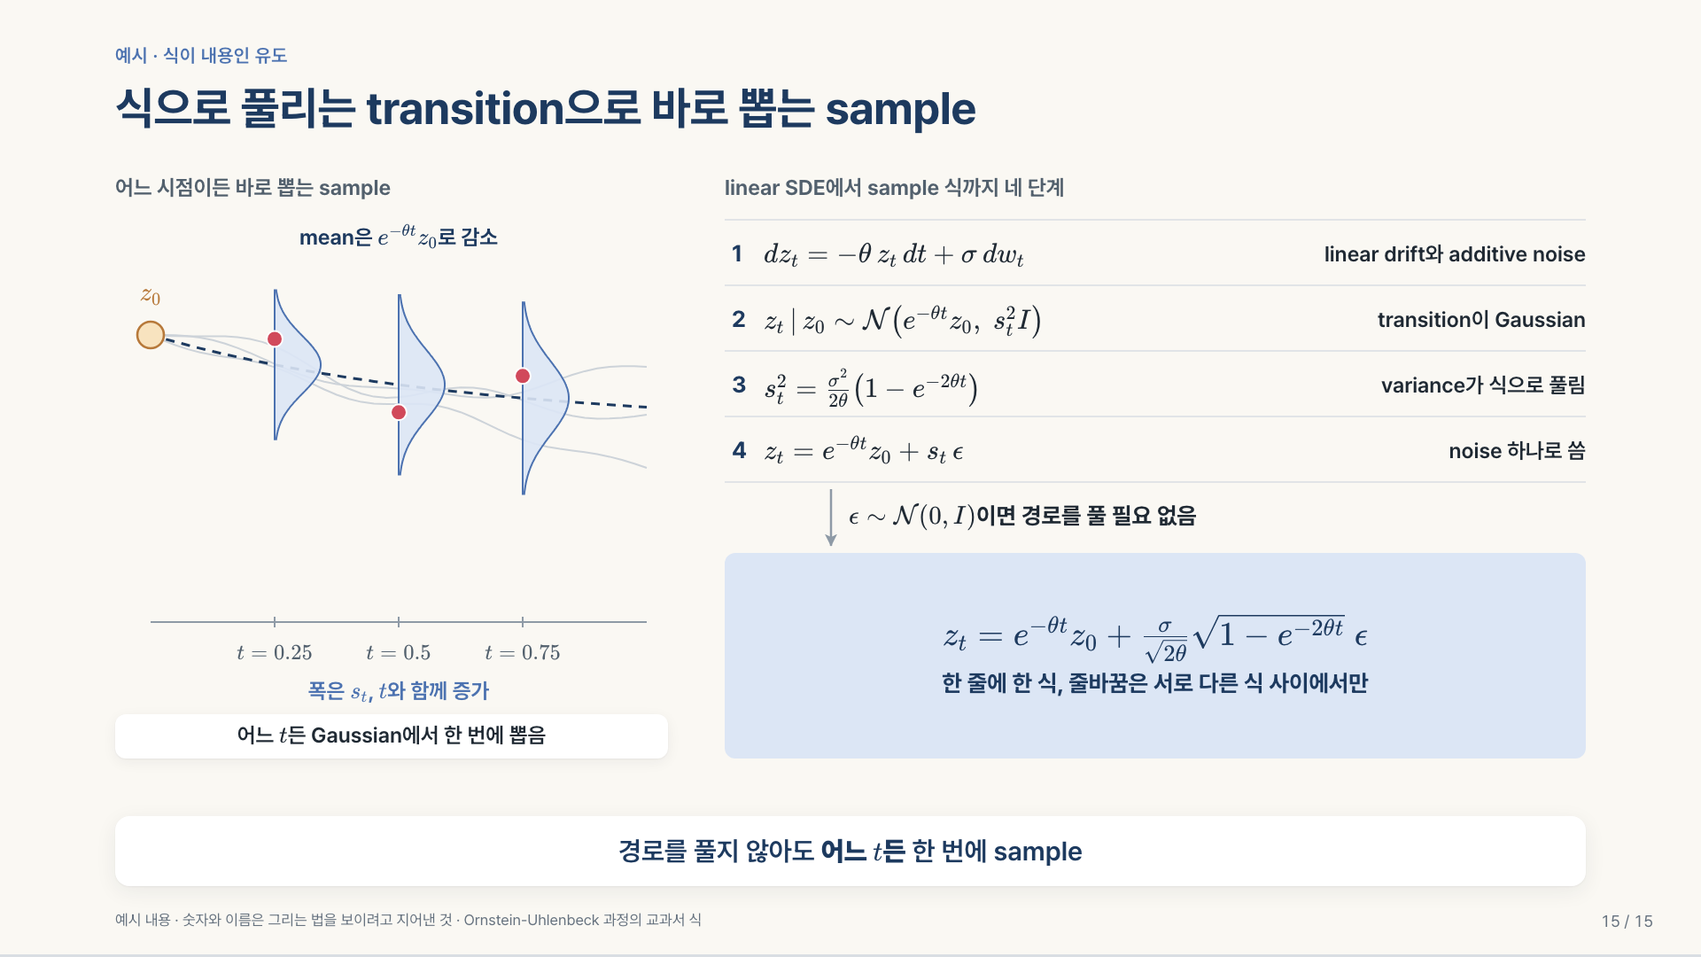
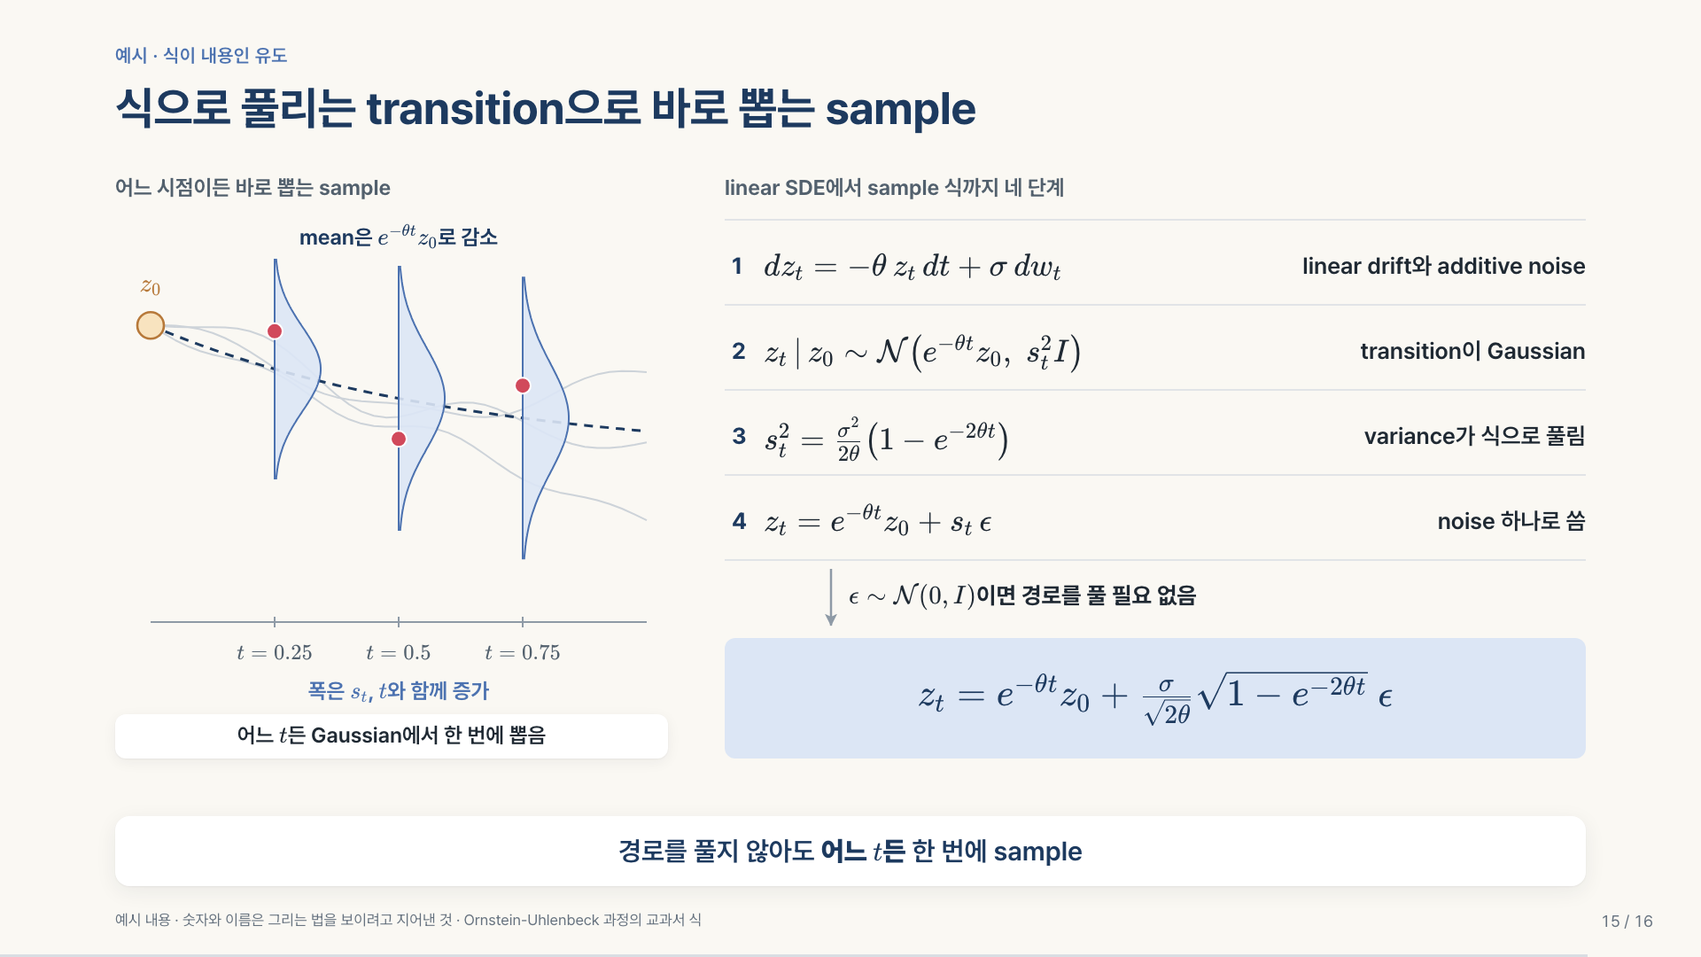
html-research-deck: what judges held against the GPT decks on an unseen paper: a transformation arrow goes in the gap between whole figures (graph_fig, gap_arrow, gallery slide 16), formula tables are larger and result cards fit their content (gallery slide 15, style_gap), a closing line's claim mus

diff --git a/skills/codex/html-research-deck/scripts/kit_gallery.py b/skills/codex/html-research-deck/scripts/kit_gallery.py
@@ -1,5 +1,5 @@
 #!/usr/bin/env python3
-"""kit_gallery.py — fifteen worked slides drawn with scene_kit.py, with toy content and no paper in them. Copy a slide's code, keep its sizes and positions, change the content.
+"""kit_gallery.py — sixteen worked slides drawn with scene_kit.py, with toy content and no paper in them. Copy a slide's code, keep its sizes and positions, change the content.
 
 usage: kit_gallery.py /abs/deck   (a folder scaffolded by new_deck.py). Renders are kept in assets/kit-gallery/ of this skill.
 Numbers, names and curves here are invented to show the drawing; nothing on these slides is a result.
@@ -353,7 +353,7 @@ def g14_cards():
 def g15_derivation():
     """A derivation: the formulas are the content. One table row per step, one relation on each line, the result on the key-equation card, and beside it a picture of what the result means. Never a chain of boxes holding step names."""
     theta, sig, z0 = 1.6, 1.3, 1.7
-    fr = Frame(40, 92, 560, 396, (0, 1), (-3.4, 3.2))
+    fr = Frame(40, 92, 560, 396, (0, 1), (-1.9, 2.6))
     sd = lambda t: sig * math.sqrt((1 - math.exp(-2 * theta * t)) / (2 * theta))
     mean = lambda t: z0 * math.exp(-theta * t)
     l = lane(0, 24, '어느 시점이든 바로 뽑는 sample')
@@ -372,14 +372,33 @@ def g15_derivation():
             (r'$z_t\,|\,z_0 \sim \mathcal N\big(e^{-\theta t} z_0,\; s_t^2 I\big)$', 'transition이 Gaussian'),
             (r'$s_t^2 = \frac{\sigma^2}{2\theta}\big(1 - e^{-2\theta t}\big)$', 'variance가 식으로 풀림'),
             (r'$z_t = e^{-\theta t} z_0 + s_t\,\epsilon$', 'noise 하나로 씀')]
-    r, hr = derive(rows)
-    r = lane(0, 24, 'linear SDE에서 sample 식까지 네 단계') + r + arrow(120, 356, 120, 420)
-    hr += tex(140, 396, r'$\epsilon \sim \mathcal N(0, I)$이면 경로를 풀 필요 없음', 26, 700)
-    hr += fx(0, 428, 972, 232, [r'$z_t = e^{-\theta t} z_0 + \frac{\sigma}{\sqrt{2\theta}}\sqrt{1 - e^{-2\theta t}}\;\epsilon$', '<span style="color:#1D3A5F;font-weight:700;font-size:26px">한 줄에 한 식, 줄바꿈은 서로 다른 식 사이에서만</span>'], 34, 'box blue')
+    r, hr = derive(rows, rh=96, size=32, note_size=26)
+    r = lane(0, 24, 'linear SDE에서 sample 식까지 네 단계') + r + arrow(120, 446, 120, 510)
+    hr += tex(140, 486, r'$\epsilon \sim \mathcal N(0, I)$이면 경로를 풀 필요 없음', 26, 700)
+    hr += fx(0, 524, 972, 136, [r'$z_t = e^{-\theta t} z_0 + \frac{\sigma}{\sqrt{2\theta}}\sqrt{1 - e^{-2\theta t}}\;\epsilon$'], 38, 'box blue')
     return slide('예시', '예시 · 식이 내용인 유도', '식으로 풀리는 transition으로 바로 뽑는 sample', [panel(110, 176, 664, 722, l, h), panel(798, 176, 1012, 722, r, hr)],
                  '경로를 풀지 않아도 <b>어느 $t$든</b> 한 번에 sample', CITE + ' · Ornstein-Uhlenbeck 과정의 교과서 식', notes('유도를 말하는 장은 식이 내용입니다. 단계 이름만 적은 상자로 바꾸지 않습니다. 한 식은 한 줄에 둡니다.'))
 
 
+def g16_transform():
+    """Whole figure to whole figure: a thick arrow in the empty gap between the two drawings. An arrow from a node to a node reads as one more edge. What changed is coloured where it happened; the bars show what the steps add up to."""
+    pos = {'a': (-125, -75), 'b': (0, -150), 'c': (125, -75), 'd': (125, 75), 'e': (0, 150), 'f': (-125, 75)}
+    ring = [('a', 'b'), ('b', 'c'), ('c', 'd'), ('d', 'e'), ('e', 'f'), ('f', 'a')]
+    cxs, cy = (230, 830, 1430), 270
+    s = graph_fig(cxs[0], cy, pos, ring + [('a', 'd')], gone=[('a', 'd'), ('c', 'd')])
+    s += graph_fig(cxs[1], cy, pos, [e for e in ring if e != ('c', 'd')])
+    s += graph_fig(cxs[2], cy, pos, [e for e in ring if e != ('c', 'd')], new=[('b', 'e')], new_nodes=['c'])
+    s += gap_arrow(410, 650, cy, '2곳 지움') + gap_arrow(1010, 1250, cy, '2곳 더함')
+    for cx, lab in zip(cxs, ('출발 graph', '중간 graph', '도착 graph')):
+        s += T(cx, 28, lab, 26, 650, SOFT, 'middle')
+    for cx, left in zip(cxs, (4, 2, 0)):
+        s += T(cx - 150, 500, '도착까지 남은 변경', 24, None, SOFT)
+        s += rect(cx - 150, 520, max(8, 300 * left / 4), 60, 6, BLUE if left else BAR_OTHER, 'none', 0) + T(cx - 150 + max(8, 300 * left / 4) + 16, 563, str(left), 34, 700, NAVY)
+    s += T(830, 650, '빨간 점선은 지울 edge, 빨간 실선은 새 edge, 노란 node는 바뀐 node', 24, 600, RED, 'middle')
+    return slide('예시', '예시 · 그림에서 그림으로', '한 번에 바꾸지 않고 작은 변경으로 잇는 graph', [panel(*FULL, s)],
+                 '남은 변경이 <b>4에서 0으로</b> 줄어드는 두 걸음', CITE, notes('변환 화살표는 두 그림 사이의 빈 곳에 두고, 바뀐 곳은 그 자리의 색으로 표시합니다.'))
+
+
 if __name__ == '__main__':
     init(sys.argv[1])
-    write_deck([g() for g in (g1_cover, g2_two_chains, g3_table, g4_hero, g5_mechanism, g6_bars, g7_lines, g8_closing, g9_causal, g10_matrix, g11_rank, g12_tiers, g13_boxes, g14_cards, g15_derivation)])
+    write_deck([g() for g in (g1_cover, g2_two_chains, g3_table, g4_hero, g5_mechanism, g6_bars, g7_lines, g8_closing, g9_causal, g10_matrix, g11_rank, g12_tiers, g13_boxes, g14_cards, g15_derivation, g16_transform)])

diff --git a/skills/codex/html-research-deck/scripts/scene_kit.py b/skills/codex/html-research-deck/scripts/scene_kit.py
@@ -23,6 +23,7 @@ same coordinates and add the padding themselves.
     T(), lines(), tex(), fx()              text, several lines, a label with KaTeX, a KaTeX card (cls 'box' white, 'box blue' the deck's key equation)
     derive()           a derivation as a table: one row per step, its formula on one line and a phrase of what it gives
     node(), edge()     a causal graph: circles and arrows trimmed to their rims
+    graph_fig(), gap_arrow()     one graph as one figure, and the arrow from one whole figure to the next, which sits in the gap and touches neither
     plot_axes(), dots(), fit_line(), swarm(), box_stat()   small plots: scatter with a fit, dots on a number line, box plots
     arrow(), qarrow(), curve(), arr(), line(), rect(), card(), circle(), strand(), badge(), check_mark(), lock(), cross()
 No reported number ever comes from these drawings; the cite line says what is schematic.
@@ -272,6 +273,23 @@ def node(cx, cy, label, r=36, hidden=False, outcome=False, size=24, stroke=None)
     for k, part in enumerate(parts):
         out += T(cx, cy - (len(parts) - 1) * lh / 2 + k * lh + size * 0.36, part, size, 700, SOFT if hidden else None, 'middle')
     return out
+
+
+def graph_fig(cx, cy, pos, edges, gone=(), new=(), new_nodes=(), r=26, labels=False):
+    """One graph as one figure. pos = {name: (dx, dy)} around (cx, cy); edges = [(a, b)]; gone: edges about to be removed (red dashed); new: edges just added (red); new_nodes: changed nodes (amber)."""
+    out = ''
+    for a, b in list(edges) + [e for e in new if e not in edges]:
+        (ax, ay), (bx, by) = pos[a], pos[b]
+        hit_gone, hit_new = (a, b) in gone, (a, b) in new
+        out += line(cx + ax, cy + ay, cx + bx, cy + by, RED if hit_gone or hit_new else '#5F718A', 4 if hit_gone or hit_new else 3, '9 7' if hit_gone else None)
+    for name, (dx, dy) in pos.items():
+        out += node(cx + dx, cy + dy, name if labels else '', r, outcome=name in new_nodes)
+    return out
+
+
+def gap_arrow(x1, x2, y, label='', color=GRAY):
+    """A transformation from one whole figure to the next: thick, straight, in the empty gap between them, with what changes written above it. It never touches a node or a small box."""
+    return arr(x1, y, x2, y, color, 7, size=30) + (T((x1 + x2) / 2, y - 30, label, 26, 650, SOFT, 'middle') if label else '')
 
 
 def edge(x1, y1, x2, y2, r1=36, r2=36, color=GRAY, dash=None, sw=2.6):

diff --git a/skills/codex/html-research-deck/scripts/style_gap.py b/skills/codex/html-research-deck/scripts/style_gap.py
@@ -12,7 +12,7 @@ Limits come from the accepted Opus decks rendered under the stage-first theme (L
 anchor 0.9 or above emptyrect 11.7 there, a result slide never below mass 3.8 or above emptyrect 20; their medians on figure slides were mass 13-23, anchor 3.8-12.6, emptyrect 6.8-8.3, and a GPT
 build before this script had 11.8, 3.2, 11.0. A kit-built deck can also overshoot, with big filled boxes in place of drawings (medians 33-38 on CausalGame), hence the upper limit on mass.
 This measures resemblance, not quality: it has no view on the argument.
-Also flagged: a formula row that starts with an operator, which is one relation split over two rows (user 2026-11-02).
+Also flagged: a formula row that starts with an operator, which is one relation split over two rows (user 2026-11-02), and a formula card taller than 170 px that holds one row (the judges' empty blue card, 2026-11-02).
 The whitebox limit: the Yuanqi Du deck's median is 6, v10 with white figure panels 29, six chart cards on one slide 16 each. Also checked: the cover is the title-slide template with the title on the stage; titles and closing lines against the approved storyline.
 Prints one FIX line per finding and exits 0; the builder fixes them and runs it again.
 """
@@ -171,6 +171,9 @@ def main():
         for row in re.findall(r'<p[^>]*>(.*?)</p>', body, flags=re.S):
             if SPLIT_ROW.match(html.unescape(row)):
                 fixes.append(f'FIX slide {i}: 식이 두 줄로 나뉘었다({plain(row)[:40]}…). 한 관계식은 한 줄에: 카드를 넓히거나 24 px까지 줄인다')
+        for m in re.finditer(r'<div class="fx box[^"]*"[^>]*height:([\d.]+)px[^>]*>(.*?)</div>', body, flags=re.S):
+            if float(m.group(1)) > 170 and len(re.findall(r'<p[ >]', m.group(2))) == 1:
+                fixes.append(f'FIX slide {i}: 식 한 줄에 높이 {float(m.group(1)):g} px 카드는 휑하다. 카드 높이를 내용에 맞춘다(한 줄이면 130 px 안팎)')
     rows = []
     for p in sorted(glob.glob(str(root / 'deck' / 'qa' / 'shots-full' / 'slide-*.png'))):
         n = int(re.search(r'slide-(\d+)', p).group(1))

diff --git a/skills/codex/html-research-deck/references/builder-notes-gpt.md b/skills/codex/html-research-deck/references/builder-notes-gpt.md
@@ -4,15 +4,15 @@
 
 ## 그리기 전에
 
-1. `assets/kit-gallery/slide-01.png`–`slide-15.png`를 모두 열어 본다. 이것이 목표 모양이다.
-2. `scripts/kit_gallery.py`를 끝까지 읽는다. 실제 코드다: 1 표지, 2 두 패널의 사슬, 3 갈래 표, 4 분포 사이의 큰 그림, 5 기전 한 장, 6 막대, 7 선, 8 정리 장, 9 인과 그래프 세 칸, 10 점 행렬, 11 많은 항목의 순위 점 그림, 12 구간을 강조한 선 그래프, 13 상자 그림, 14 흰 카드에 하나씩 담은 작은 차트 여섯 개, 15 식이 내용인 유도 표. 상자와 화살표는 그 장의 내용이 정말 흐름일 때만 쓰고, 데이터와 변수 관계는 6·7·9–13번처럼 그린다. 부품은 `scripts/scene_kit.py`이고 사용법은 그 첫머리에 있다. `build.py`는 `from scene_kit import *`와 `init(...)`, `write_deck(...)`로 시작한다.
+1. `assets/kit-gallery/slide-01.png`–`slide-16.png`를 모두 열어 본다. 이것이 목표 모양이다.
+2. `scripts/kit_gallery.py`를 끝까지 읽는다. 실제 코드다: 1 표지, 2 두 패널의 사슬, 3 갈래 표, 4 분포 사이의 큰 그림, 5 기전 한 장, 6 막대, 7 선, 8 정리 장, 9 인과 그래프 세 칸, 10 점 행렬, 11 많은 항목의 순위 점 그림, 12 구간을 강조한 선 그래프, 13 상자 그림, 14 흰 카드에 하나씩 담은 작은 차트 여섯 개, 15 식이 내용인 유도 표, 16 그림 전체에서 그림 전체로 가는 변환. 상자와 화살표는 그 장의 내용이 정말 흐름일 때만 쓰고, 데이터와 변수 관계는 6·7·9–13번처럼 그린다. 부품은 `scripts/scene_kit.py`이고 사용법은 그 첫머리에 있다. `build.py`는 `from scene_kit import *`와 `init(...)`, `write_deck(...)`로 시작한다.
 3. `assets/reference/` 아래 덱이 있으면 PNG와 `build.py`도 본다. 지금 만드는 덱과 같은 논문의 폴더는 열지 않는다. 그 덱의 코드와 문구는 영어 용어 규칙과 무대 위 그림 규칙 이전의 것이니, 모양만 참고하고 문구와 흰 박스 코드는 따르지 않는다.
 4. `work/scene-spec.md`를 쓴다. 장마다 다섯 칸: 복사할 장(갤러리 또는 기준 덱의 함수 이름) / 마무리줄이 주장하는 것 / 그것을 증명하는 그림 요소 / 등장 행위자 전부 / 첫 입력에서 마지막 출력까지.
 
 ## 복사하는 법
 
 5. 장마다 가장 가까운 예제 함수를 통째로 복사한 뒤 글자와 숫자만 바꾼다. 도형의 크기, 위치, 글자 크기, 선 굵기, 색은 그대로 둔다. 예제에 없는 모양이 꼭 필요할 때만 새로 그리고, 그때도 kit의 부품과 색 상수로 그린다.
-6. 그림은 흰 패널에 넣지 않고 따뜻한 무대 위에 바로 놓는다. `panel()`은 투명하다. 흰색은 한 항목만 담는 작은 카드에만 쓴다: 수식 하나(`fx`), 여러 칸 중 차트 하나(`cls='panel card'`, 갤러리 14장), 마무리줄. 큰 흰 사각형을 그리거나 슬라이드에 `background`를 넣지 않는다. 표지는 `cover()`다. 제목은 무대 위에 두고 흰 박스에 넣지 않으며, kicker, h2, 마무리줄을 두지 않는다. 제목을 세 줄로 끊고(`<br>`, 강조어는 `<em>`) 오른쪽 패널에 그림 하나를 둔다. 갤러리 1장을 그대로 따른다.
+6. 그림은 흰 패널에 넣지 않고 따뜻한 무대 위에 바로 놓는다. `panel()`은 투명하다. 흰색은 한 항목만 담는 작은 카드에만 쓴다: 수식 하나(`fx`), 여러 칸 중 차트 하나(`cls='panel card'`, 갤러리 14장), 마무리줄. 큰 흰 사각형을 그리거나 슬라이드에 `background`를 넣지 않는다. 표, 카드, 차트의 왼쪽 끝은 제목의 왼쪽 끝과 맞춘다(scene x 0). 표지는 `cover()`다. 제목은 무대 위에 두고 흰 박스에 넣지 않으며, kicker, h2, 마무리줄을 두지 않는다. 제목을 세 줄로 끊고(`<br>`, 강조어는 `<em>`) 오른쪽 패널에 그림 하나를 둔다. 갤러리 1장을 그대로 따른다.
 7. 그림 장에는 눈이 먼저 갈 큰 도형이 하나 있어야 한다. 분포 사이의 운반은 `hero_bridge()`나 `field()` + `strands()` + `vprof()`로 패널을 채우고, 상자 그림은 `chain()`의 큰 크기와 `model_box()`를 쓴다. 얇은 선과 작은 상자만으로 그리지 않는다.
 8. 행위자는 항상 같은 그림이다: 주 모델은 파란 `model_box()`, 인코더와 디코더는 `enc()`와 `dec()`, 분포는 `dens()`다. 사진은 논문 PDF에서 `pdfimages`로 꺼낸 실제 이미지를 `photo()`로 쓴다. 분포에는 테두리, 원, 타원을 두르지 않고, 봉우리는 표준편차 3배 이상 떼어 놓는다.
 9. 차트는 `bars()`와 갤러리 6·7장을 쓴다: 넓은 막대, 막대 위 굵은 값, 비교 대상은 회색 `BAR_OTHER`, 그 장의 핵심 숫자는 `big()`으로 가장 크게. 마무리줄의 비교값과 기준선은 차트 안에 값 라벨로 둔다.
@@ -23,11 +23,12 @@
 11. 기전은 첫 입력에서 마지막 출력까지 이어진다. 제목과 마무리줄에 나온 행위자와 작용은 전부 그림에 있다.
 12. 복사하는 것은 모양이고, 그림이 증명하는 내용은 장마다 새로 넣는다. 같은 그림을 여러 장에 그대로 재사용하지 않는다. 첫 시험에서 판사가 지적한 예: 세 조건의 출력이 똑같이 그려져 결과 차이가 안 보임, "바로 뽑는 $z_t$"를 말하는 장에 $z_t$ 표시가 없음, U-Net 분할을 말하는 장에 분할이 없음, 비교 대상이 그림에 없음. 그 장에서 달라지는 것을 바로 그 그림 위에 그린다.
 13. 글을 담은 큰 사각형은 그림이 아니다. 숫자 하나를 큰 상자에 넣거나 문장을 색 띠에 담아 패널을 채우지 않는다. 숫자는 차트 위에, 문장은 마무리줄이나 작은 흰 카드 하나에 둔다. 데이터와 변수 관계가 있는 장이면 갤러리 6·7·9–13번처럼 그린다.
-14. 식은 내용이다(사용자 2026-11-02: "linear SDE → gaussian transition 이런거 하면서 식들이 다 없네?"). 유도나 정의를 말하는 장에는 논문의 식을 화면에 둔다. 단계 이름만 적은 상자 사슬로 바꾸지 않는다. 유도는 갤러리 15장처럼 `derive()` 표로, 한 줄에 식 하나와 뜻 한 구절을 쓴다. 파란 `model_box()`는 주 모델에만 쓰고 식 단계나 loss 항에 쓰지 않는다.
+14. 식은 내용이다(사용자 2026-11-02: "linear SDE → gaussian transition 이런거 하면서 식들이 다 없네?"). 유도나 정의를 말하는 장에는 논문의 식을 화면에 둔다. 단계 이름만 적은 상자 사슬로 바꾸지 않는다. 유도는 갤러리 15장처럼 `derive()` 표로, 한 줄에 식 하나와 뜻 한 구절을 쓴다. 파란 `model_box()`는 주 모델에만 쓰고 식 단계나 loss 항에 쓰지 않는다. 표의 식은 32 px로 쓰고 첨자가 2 m에서 읽히지 않을 만큼 줄이지 않는다. 표는 네 줄까지이고, 식 표와 큰 카드와 작은 카드를 한 장에 쌓지 않는다. 결과 식 카드의 높이는 내용에 맞춘다: 한 줄이면 130 px 안팎이고, 230 px 카드에 식 한 줄을 넣지 않는다. 표만 있는 장은 갤러리 15장처럼 옆에 그 식이 뜻하는 그림을 둔다.
 15. 한 관계식은 한 줄에 쓴다(사용자 2026-11-02: "식이 한 줄로 표현할 수 있음에도 굳이 줄바꿈을 하는데 이런건 전달이 오히려 어려워져"). `fx()`의 칸에 식을 앞부분과 뒷부분으로 나눠 넣지 않는다. 안 들어가면 카드를 넓히고, 그래도 안 되면 글자를 24 px까지 줄인다. 줄바꿈은 서로 다른 식 사이에서만 한다. +, −, =, ≥로 시작하는 줄이 있으면 잘못이다. 이미 만든 덱을 고치는 회차에서도 이 두 규칙을 먼저 점검한다.
-16. 화살표는 출발 도형의 테두리에서 시작해 대상의 테두리에서 끝난다. 직각 배선, 허공에서 시작하는 점선, 다른 선을 가로지르는 선이 생기면 배치를 바꾼다. 변화 라벨은 그 화살표에서 40 px 안에 두고, 라벨은 이웃 요소와 12 px 이상 띄운다.
+16. 화살표는 출발 도형의 테두리에서 시작해 대상의 테두리에서 끝난다. 단, 그림 전체에서 그림 전체로 가는 변환(graph에서 graph로, 전에서 후로)은 갤러리 16장처럼 `gap_arrow()`를 두 그림 사이의 빈 곳에 곧게 놓는다. node나 작은 상자에 닿거나 비스듬히 잇는 화살표는 또 하나의 edge나 자동 연결선으로 읽힌다(새 논문 시험에서 Astra, Sol 판사 6회 모두 지적). 무엇이 바뀌었는지는 화살표로 가리키지 말고 바뀐 자리의 색으로 보인다. 직각 배선, 허공에서 시작하는 점선, 다른 선을 가로지르는 선이 생기면 배치를 바꾼다. 변화 라벨은 그 화살표에서 40 px 안에 두고, 라벨은 이웃 요소와 12 px 이상 띄운다.
 
 ## 끝내기 전
 
 17. `python3 scripts/style_gap.py <작업 폴더>`를 돌린다. FIX 줄이 없어질 때까지 고친다. 면적이 모자라면 그림을 키우고, 넘치면 큰 상자를 걷어 낸다. 큰 회색 상자로 면적만 채우지 않는다.
-18. 장마다 전체 크기 PNG를 열어 복사해 온 예제의 PNG와 번갈아 본다. 도형의 크기와 무게, 빈 곳의 양, 글의 양이 예제와 같아 보일 때까지 고친다. 보고에는 장별로 무엇을 어떤 예제에서 복사했는지와 style_gap 마지막 줄을 적는다.
+18. 장마다 마무리줄을 읽고 그 주장을 보여 주는 도형을 그림에서 찾는다. 식이나 글에만 있으면 그 주장을 그리거나, 마무리줄을 그림이 보여 주는 말로 바꾼다(새 논문 시험에서 판사 5회가 이론 장의 마무리줄이 식과 글로만 증명된다고 지적).
+19. 장마다 전체 크기 PNG를 열어 복사해 온 예제의 PNG와 번갈아 본다. 도형의 크기와 무게, 빈 곳의 양, 글의 양이 예제와 같아 보일 때까지 고친다. 보고에는 장별로 무엇을 어떤 예제에서 복사했는지와 style_gap 마지막 줄을 적는다.

diff --git a/skills/codex/html-research-deck/SKILL.md b/skills/codex/html-research-deck/SKILL.md
@@ -65,6 +65,8 @@ Second result (2026-11-02, same paper and judge, design / message): with `builde
 
 Third result (2026-11-02, same paper, kit and gallery with stage first and English terms, storyline with v11's titles, judge median of three, rubric reworded): first builds Astra high 82.50 / 80.44 and Sol xhigh 81.88 / 80.67, against 80.33 / 75.34 and 80.66 / 74.12 with the rule-only notes. The accepted deck after its own loops is v13, 89.17 / 90.44. The look now matches by eye and by `style_gap` (0 findings on both); what still separates them is the judge's H on mechanisms: arrows that start or end in empty space, the same blue box used for models, formula steps and loss terms, a step the slide talks about that is not drawn. Same paper, so this says nothing about other papers; the kit came from this deck's Opus code.
 
+Fourth result (2026-11-02, a paper the kit did not come from, each model wrote its own storyline, judge Opus 5.5 max): Opus 5 76.27 / 96.67, Sonnet 5.5 85.84 (one usable draw) / 97.22, Astra high 80.66 / 94.33, Sol xhigh 81.38 / 85.78. The Opus 5.5 build was stopped by the safety classifier and not retried, and 4 of 24 judge draws were blocked, so a paper near biology or chemistry cannot give an Opus 5.5 baseline. What the judges held against the GPT decks went into the notes, gallery slides 15 and 16 and `style_gap.py`; not re-measured yet.
+
 ## User decisions (2026-11-01 evening, Latent SI deck v6 review)
 
 - "여기부터는 발표자 생각 이런 멘트가 너무 별로다. 뭐어차피 내가 발표마다 다르게 넣기는 하겠지만. 일단전반적으로 디자인은 굳." → the closing slide's question panel is the user's slot: `owner: user` in `storyline.json` (builders in goal loops leave that slide alone — both iterate scripts list it in the prompt; auto-generation puts a content header and 2–3 questions, never a "발표자 생각" header). Author/presenter tokens (`저자`·`발표자`·`모식`·`번역`) are a measured item now (`rubric-message.md` M10, 4 points, taken from M1/M3) — visible copy clean, attribution in the cite line. M4(b) measures the storyline `glossary` (`use`/`avoid` per quantity; caller-owned) instead of a fixed jargon list, so "용어 흔들림" is scored the same way on every deck. The v5 judge's unreadable 3.0:1 grey became `--muted #66727F` (4.9:1) and `check_layout.py` warns `low-contrast` below 4.5:1 (3:1 for bold ≥ 22 px).
